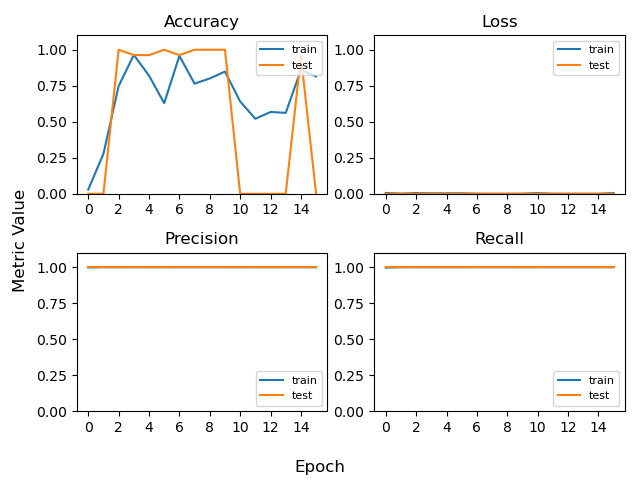
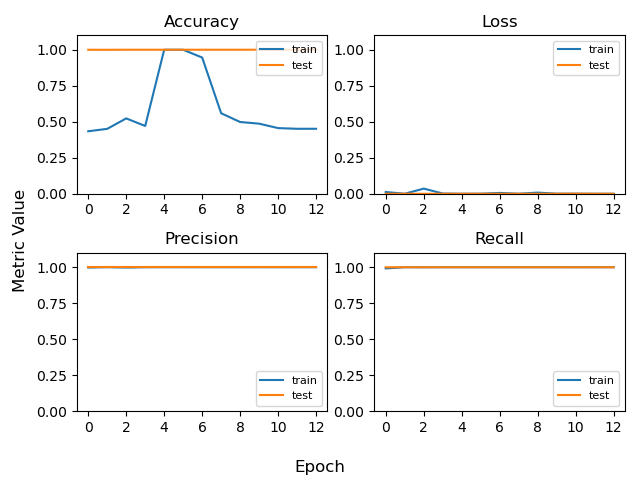
added figures

diff --git a/ShapeDNN/trainShapeDNN.py b/ShapeDNN/trainShapeDNN.py
@@ -27,10 +27,13 @@ from keras.layers.pooling import GlobalMaxPooling1D
 from keras.layers.recurrent import LSTM
 from keras.layers.wrappers import Bidirectional, TimeDistributed
 from keras.models import load_model
-from keras.callbacks import ModelCheckpoint, EarlyStopping
+from keras.callbacks import ModelCheckpoint, EarlyStopping, ReduceLROnPlateau
 from keras import optimizers
 from keras import backend as K
 from keras import regularizers
+
+
+
 import tensorflow as tf
 print("all packages loaded")
 if len(sys.argv) != 2:
@@ -160,7 +163,9 @@ reduce_lr = ReduceLROnPlateau(monitor='val_loss', factor=0.2,
                               patience=5, min_lr=0.001)
 
 b=validmat['Test_labels'].T
-X_val, y_val = utils.shuffle(validmat['Test_data'],validmat['Test_labels'])
+print(validmat['Test_data'].shape)
+print(validmat['Test_labels'].shape)
+X_val, y_val = utils.shuffle(validmat['Test_data'],validmat['Test_labels'].T)
 array_sum = np.sum(X_val)
 array_has_nan = np.isnan(array_sum)
 if array_has_nan:
@@ -176,7 +181,7 @@ print('No Nan in validation')
 # model.fit(X_train, y_train, batch_size=100, epochs=60, shuffle=True, verbose=1, validation_data=(np.transpose(validmat['Train_data'],axes=(0,2,1)),validmat['Train_vals'][:,125:815]), callbacks=[checkpointer,earlystopper])
 
 # added reduce learning rate callback to slow down learning rate
-history = model.fit(X_train, y_train, batch_size=100, epochs=60, shuffle=True, verbose=1, validation_data=(X_val,y_val.T), callbacks=[checkpointer,earlystopper, reduce_lr])
+history = model.fit(X_train, y_train, batch_size=100, epochs=60, shuffle=True, verbose=1, validation_data=(X_val,y_val), callbacks=[checkpointer,earlystopper, reduce_lr])
 
 model.save(model_folder+'tbinet.h5')
 
@@ -185,24 +190,27 @@ print(history.history.keys())
 try:
 	print("Loss")
 	print(history.history['loss'])
-	print("\n")
+	print("val_loss")
 	print(history.history['val_loss'])
+	print("\n")
 	
 	print("accuracy")
 	print(history.history['accuracy'])
-	print("\n")
+	print("val_accuracy")
 	print(history.history['val_accuracy'])
-
+	print("\n")
+	
 	print("precision")
 	print(history.history['precision'])
-	print("\n")
+	print("val_precision")
 	print(history.history['val_precision'])
-
+	print("\n")
+	
 	print("recall")
 	print(history.history['recall'])
-	print("\n")
+	print("Val recall")
 	print(history.history['val_recall'])
-
+	print("\n")
 	fig, axs = plt.subplots(2, 2)
 	axs[0, 0].plot(history.history['accuracy'], label='train')
 	axs[0, 0].plot(history.history['val_accuracy'], label='test')

diff --git a/ShapeDNN/testShapeDNN.py b/ShapeDNN/testShapeDNN.py
@@ -159,6 +159,6 @@ print("Averaged AUPR:", np.nanmean(auprs))
 from sklearn.metrics import accuracy_score
 from sklearn.metrics import precision_score
 from sklearn.metrics import recall_score 
-print("accuracy_score", accuracy_score(y_test,tpreds))
-print("precision_score", precision_score(y_test,tpreds))
-print("recall_score", recall_score(y_test,tpreds))
+print("accuracy_score", accuracy_score(y_test.T,tpreds))
+print("precision_score", precision_score(y_test.T,tpreds))
+print("recall_score", recall_score(y_test.T,tpreds))
